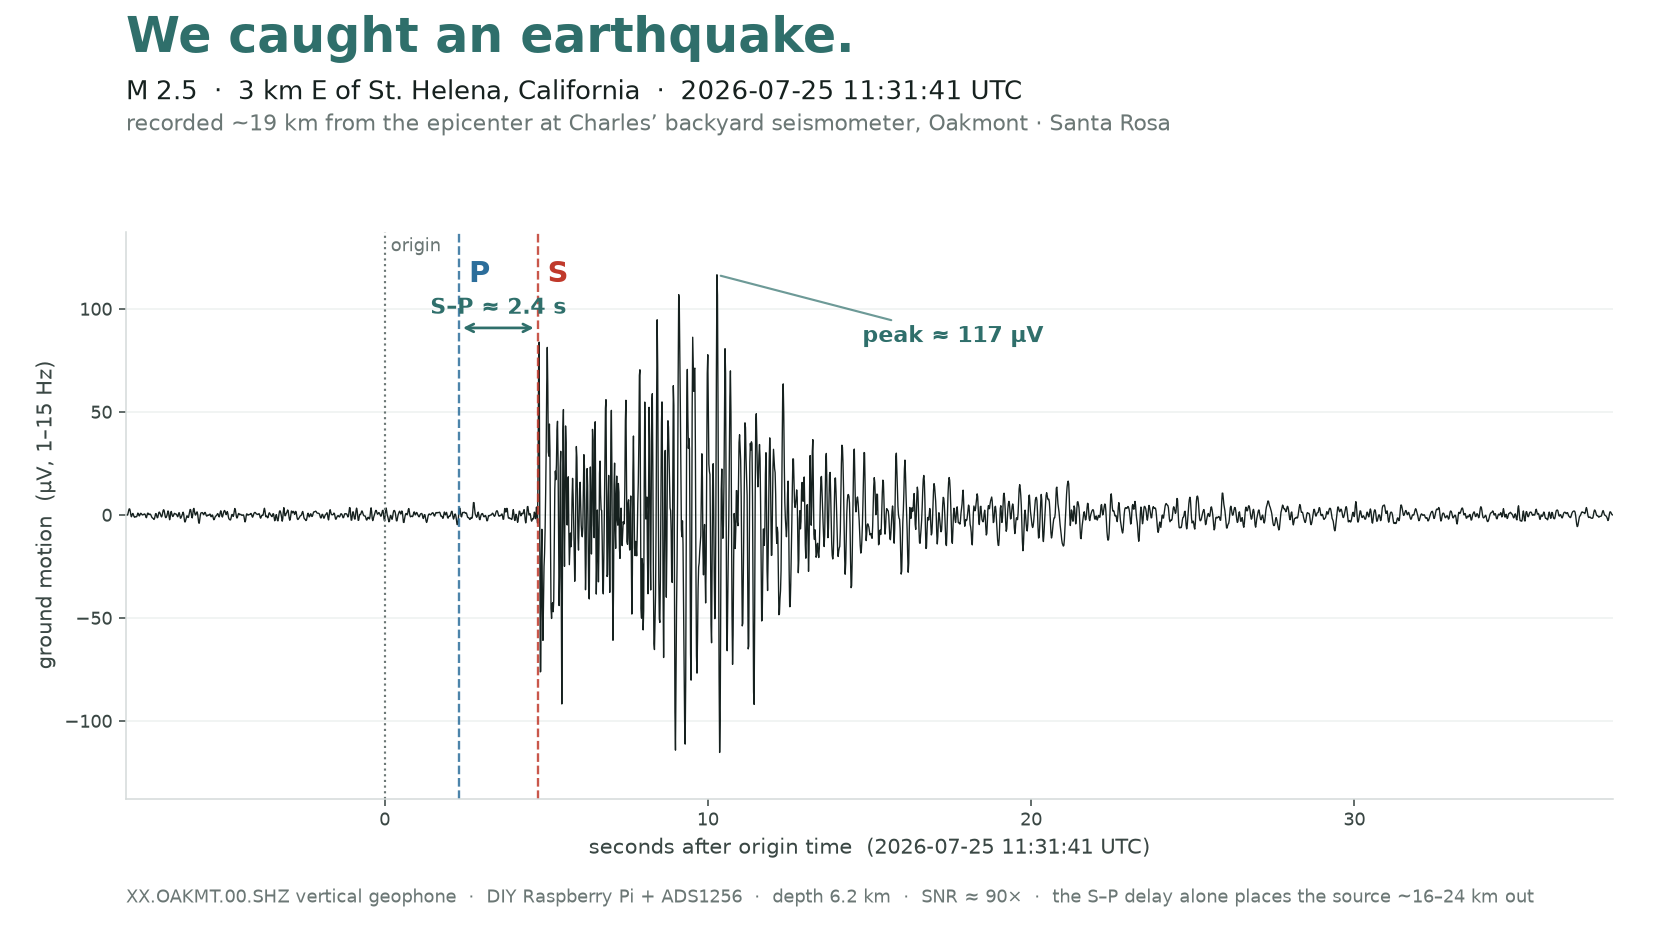
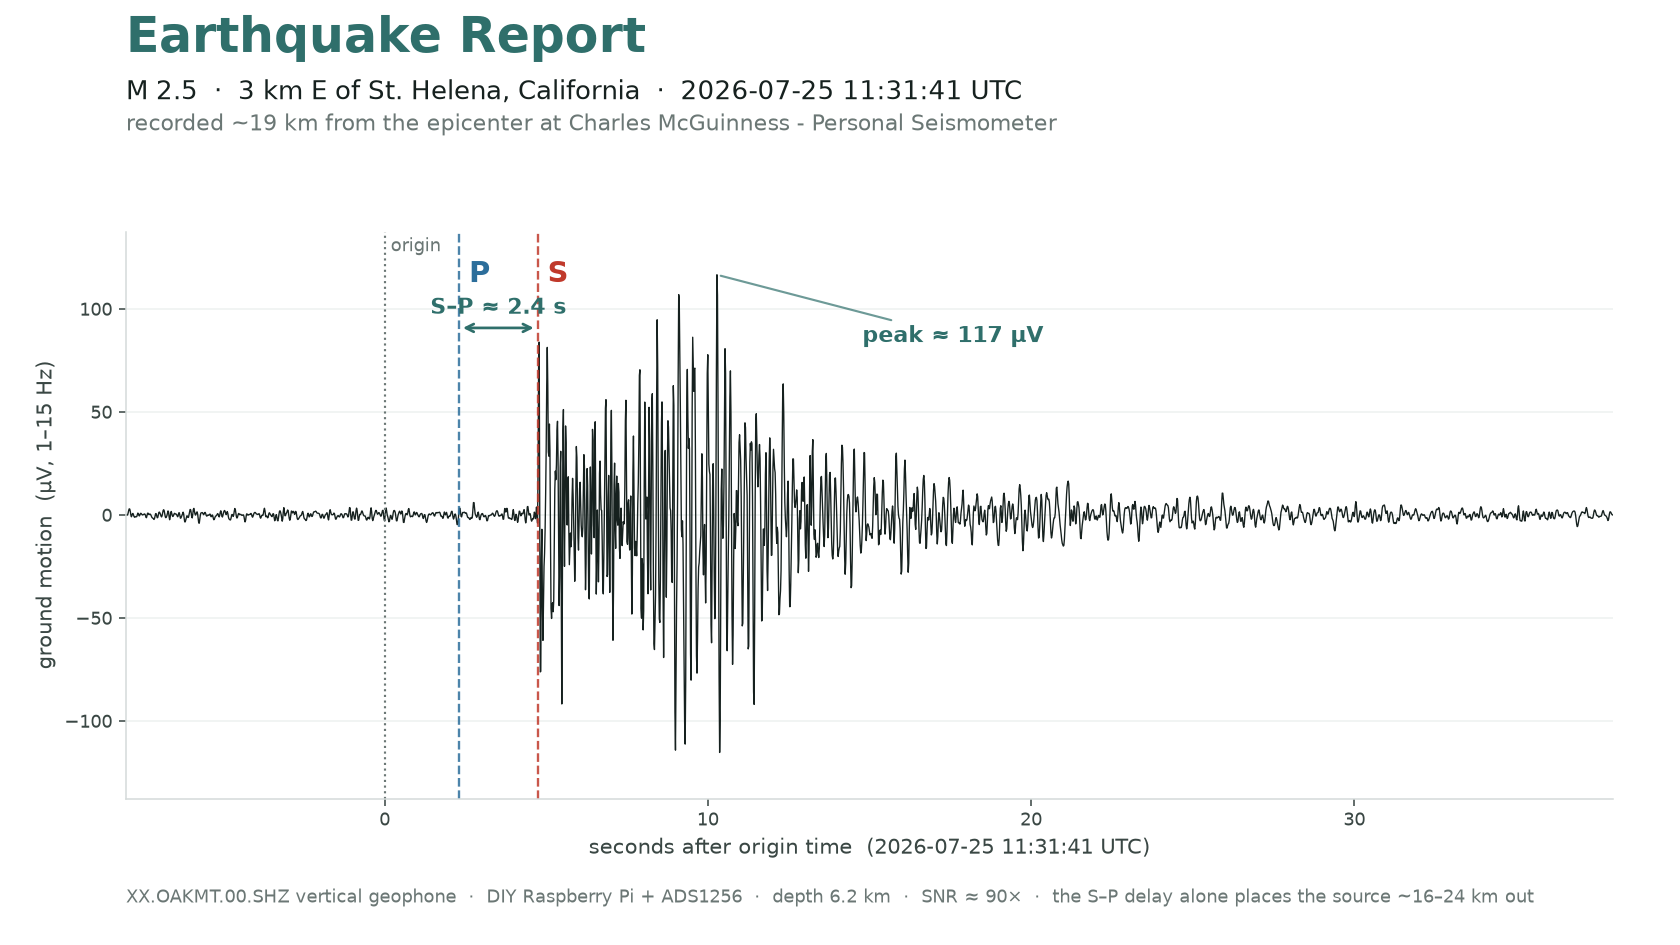
quake_share: retitle "Earthquake Report", full-name station label

Changed region(s): [[0.0619, 0.0, 0.4952, 0.0614], [0.3714, 0.1228, 0.7119, 0.1534]]

diff --git a/analysis/quake_share.py b/analysis/quake_share.py
@@ -29,7 +29,7 @@ from obspy import UTCDateTime
 
 # --- station + model defaults (override via CLI) -----------------------------
 STA_LAT, STA_LON = 38.435, -122.630          # Oakmont, Santa Rosa
-STA_LABEL = "Charles’ backyard seismometer, Oakmont · Santa Rosa"
+STA_LABEL = "Charles McGuinness - Personal Seismometer"
 VP, VS = 6.0, 3.46                            # crustal velocities, km/s (Vp/Vs≈1.73)
 SP_TO_KM = VP * VS / (VP - VS)               # S–P seconds -> distance km (≈8.2)
 GAIN = 64
@@ -62,7 +62,7 @@ def main():
     ap.add_argument("--sta-lat", type=float, default=STA_LAT)
     ap.add_argument("--sta-lon", type=float, default=STA_LON)
     ap.add_argument("--sta-label", default=STA_LABEL)
-    ap.add_argument("--title", default="We caught an earthquake.")
+    ap.add_argument("--title", default="Earthquake Report")
     ap.add_argument("--pre", type=float, default=8.0, help="seconds of trace before origin")
     ap.add_argument("--post", type=float, default=38.0, help="seconds of trace after origin")
     ap.add_argument("--out", default=None)
